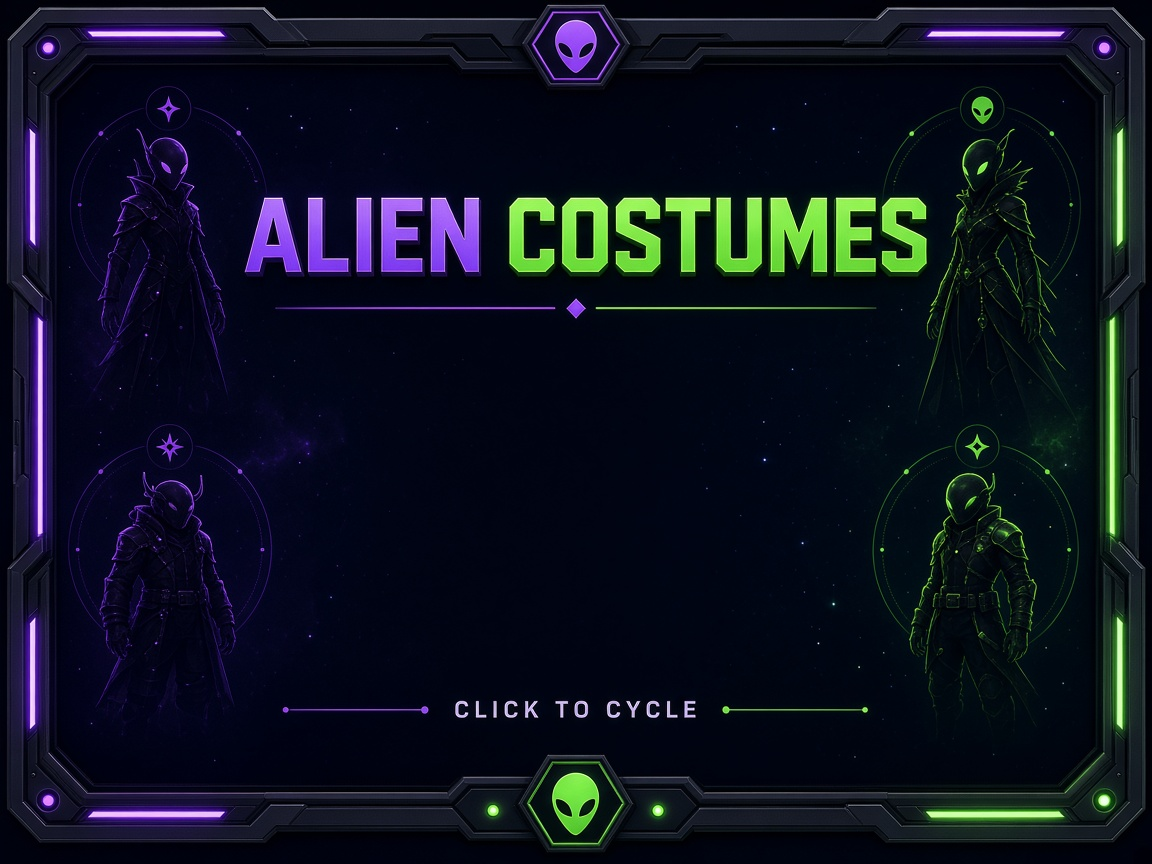
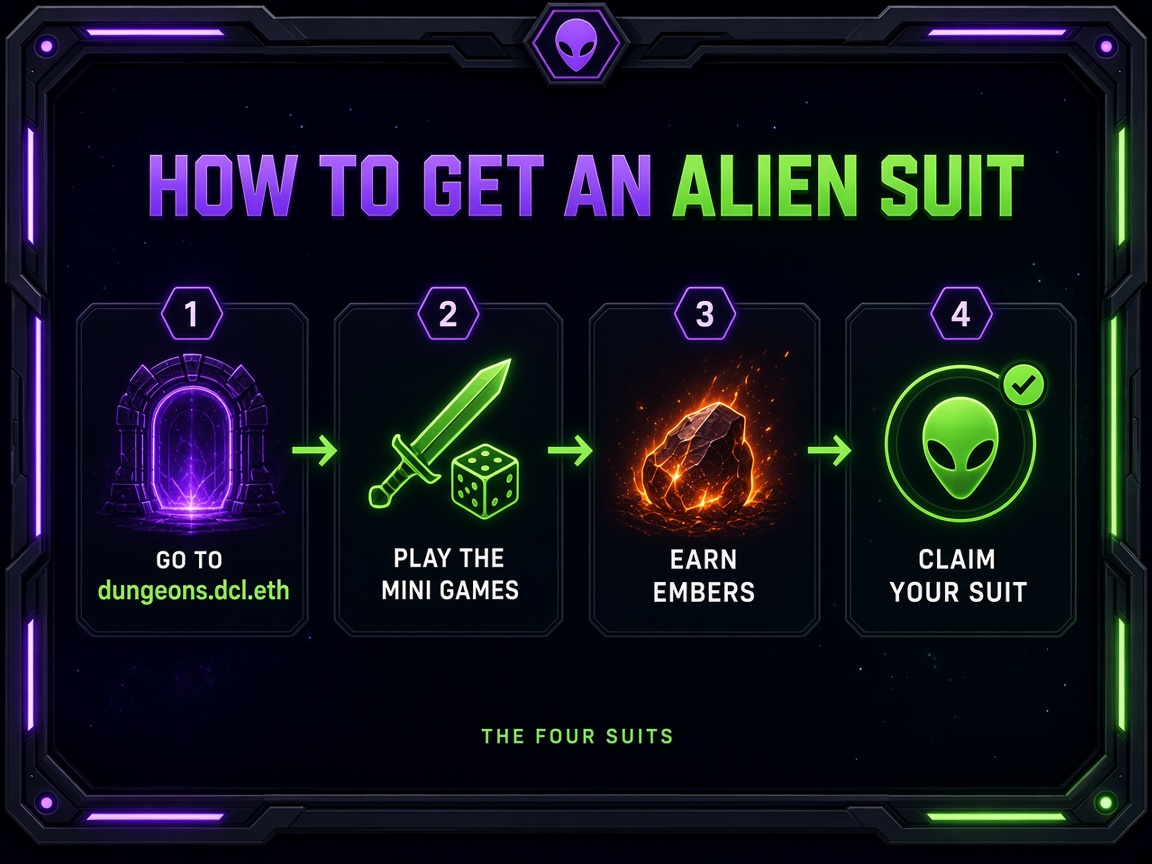
Costume showcase: 4-step how-to-get-a-suit guide with the real suit thumbnails

Changed region(s): [[0.0, 0.0938, 1.0, 1.0], [0.0, 0.0, 1.0, 0.3438]]

diff --git a/src/client/plaza.ts b/src/client/plaza.ts
@@ -196,7 +196,8 @@ export function createPortals() {
 
 const BASE_AVATAR = 'urn:decentraland:off-chain:base-avatars'
 const EMOTE_NAMES = ['RED', 'PURPLE', 'GREEN', 'CYAN']
-const COSTUME_NAMES = ['ALIEN 01', 'ALIEN 02', 'ALIEN 03', 'ALIEN 04']
+const COSTUME_NAMES = ["EARTH'S AMBASSADOR", 'WAVED AT THE LIGHTS', 'THAT MEANS YES', 'GETTING BANNED']
+const COSTUME_THUMBS = ['images/costume-0.png', 'images/costume-1.png', 'images/costume-2.png', 'images/costume-3.png']
 const EMOTE_THUMBS = ['images/emote-red.png', 'images/emote-purple.png', 'images/emote-green.png', 'images/emote-cyan.png']
 
 /** Price line per emote item. Starts from the last known Marketplace listing, refreshed live. */
@@ -328,7 +329,7 @@ function createAvatarShowcase(kind: 'emote' | 'costume', position: Vector3, text
   const status = engine.addEntity()
   Transform.create(status, { parent: root, position: Vector3.create(0, 1.15, -3.65) })
   TextShape.create(status, {
-    text: kind === 'emote' ? 'RED  ·  1 / 4' : 'ALIEN 01  ·  1 / 4',
+    text: `${kind === 'emote' ? EMOTE_NAMES[0] : COSTUME_NAMES[0]}  ·  1 / 4`,
     fontSize: 2,
     font: Font.F_SANS_SERIF,
     textColor: kind === 'emote' ? Color4.create(0.3, 0.95, 1, 1) : Color4.create(0.7, 1, 0.35, 1),
@@ -381,30 +382,38 @@ function createAvatarShowcase(kind: 'emote' | 'costume', position: Vector3, text
     Billboard.create(buyText, { billboardMode: BillboardMode.BM_Y })
     display.buyText = buyText
 
-    // Row of the four item thumbnails on the backdrop with the Marketplace price under each.
-    // Clicking one shows that emote; the glowing frame marks the one on the pedestal.
+  }
+
+  // Row of the four item thumbnails on the backdrop (emotes: middle of the panel with the
+  // Marketplace price under each; costumes: the empty strip at the bottom of the guide).
+  // Clicking one shows that item; the glowing frame marks the one on the pedestal.
+  {
+    const thumbs = kind === 'emote' ? EMOTE_THUMBS : COSTUME_THUMBS
+    const tileY = kind === 'emote' ? TILE_Y : 1.8
+    const tileSize = kind === 'emote' ? TILE : 1.15
+    const tileGap = kind === 'emote' ? TILE_GAP : 2.8
     const highlight = engine.addEntity()
-    Transform.create(highlight, { parent: root, position: Vector3.create(-1.5 * TILE_GAP, TILE_Y, -0.06), scale: Vector3.create(TILE + 0.22, TILE + 0.22, 1) })
+    Transform.create(highlight, { parent: root, position: Vector3.create(-1.5 * tileGap, tileY, -0.06), scale: Vector3.create(tileSize + 0.22, tileSize + 0.22, 1) })
     MeshRenderer.setPlane(highlight)
     Material.setPbrMaterial(highlight, { albedoColor: Color4.create(0.1, 0.5, 0.6, 1), emissiveColor: glowColor, emissiveIntensity: 1.6, roughness: 1, metallic: 0 })
     display.highlight = highlight
     display.tiles = []
     display.prices = []
     for (let i = 0; i < 4; i++) {
-      const x = (i - 1.5) * TILE_GAP
+      const x = (i - 1.5) * tileGap
       const tile = engine.addEntity()
-      Transform.create(tile, { parent: root, position: Vector3.create(x, TILE_Y, -0.1), scale: Vector3.create(TILE, TILE, 1) })
+      Transform.create(tile, { parent: root, position: Vector3.create(x, tileY, -0.1), scale: Vector3.create(tileSize, tileSize, 1) })
       MeshRenderer.setPlane(tile)
       MeshCollider.setPlane(tile, ColliderLayer.CL_POINTER)
       Material.setBasicMaterial(tile, {
-        texture: Material.Texture.Common({ src: EMOTE_THUMBS[i], wrapMode: TextureWrapMode.TWM_CLAMP, filterMode: TextureFilterMode.TFM_BILINEAR }),
+        texture: Material.Texture.Common({ src: thumbs[i], wrapMode: TextureWrapMode.TWM_CLAMP, filterMode: TextureFilterMode.TFM_BILINEAR }),
         diffuseColor: Color4.White(),
         castShadows: false
       })
       const price = engine.addEntity()
-      Transform.create(price, { parent: root, position: Vector3.create(x, TILE_Y - TILE / 2 - 0.42, -0.1) })
+      Transform.create(price, { parent: root, position: Vector3.create(x, tileY - tileSize / 2 - 0.42, -0.1) })
       TextShape.create(price, {
-        text: priceLabel(i),
+        text: kind === 'emote' ? priceLabel(i) : '',
         fontSize: 1.25,
         font: Font.F_SANS_SERIF,
         textColor: Color4.create(1, 0.9, 0.45, 1),
@@ -414,7 +423,7 @@ function createAvatarShowcase(kind: 'emote' | 'costume', position: Vector3, text
         lineSpacing: 9
       })
       pointerEventsSystem.onPointerDown(
-        { entity: tile, opts: { button: InputAction.IA_POINTER, hoverText: `Show ${EMOTE_NAMES[i].toLowerCase()} emote`, maxDistance: 16 } },
+        { entity: tile, opts: { button: InputAction.IA_POINTER, hoverText: kind === 'emote' ? `Show ${EMOTE_NAMES[i].toLowerCase()} emote` : `Show suit: ${COSTUME_NAMES[i].toLowerCase()}`, maxDistance: 16 } },
         () => show(i)
       )
       display.tiles.push(tile)
@@ -441,7 +450,7 @@ function createAvatarShowcase(kind: 'emote' | 'costume', position: Vector3, text
     }
     shape.expressionTriggerTimestamp = Date.now()
     TextShape.getMutable(status).text = `${kind === 'emote' ? EMOTE_NAMES[display.index] : COSTUME_NAMES[display.index]}  ·  ${display.index + 1} / 4`
-    if (display.highlight) Transform.getMutable(display.highlight).position.x = (display.index - 1.5) * TILE_GAP
+    if (display.highlight) Transform.getMutable(display.highlight).position.x = (display.index - 1.5) * (kind === 'emote' ? TILE_GAP : 2.8)
   }
   const cycle = () => show((display.index + 1) % 4)
   const cycleOptions = { button: InputAction.IA_POINTER, hoverText: `Next ${kind}`, maxDistance: 14 }
